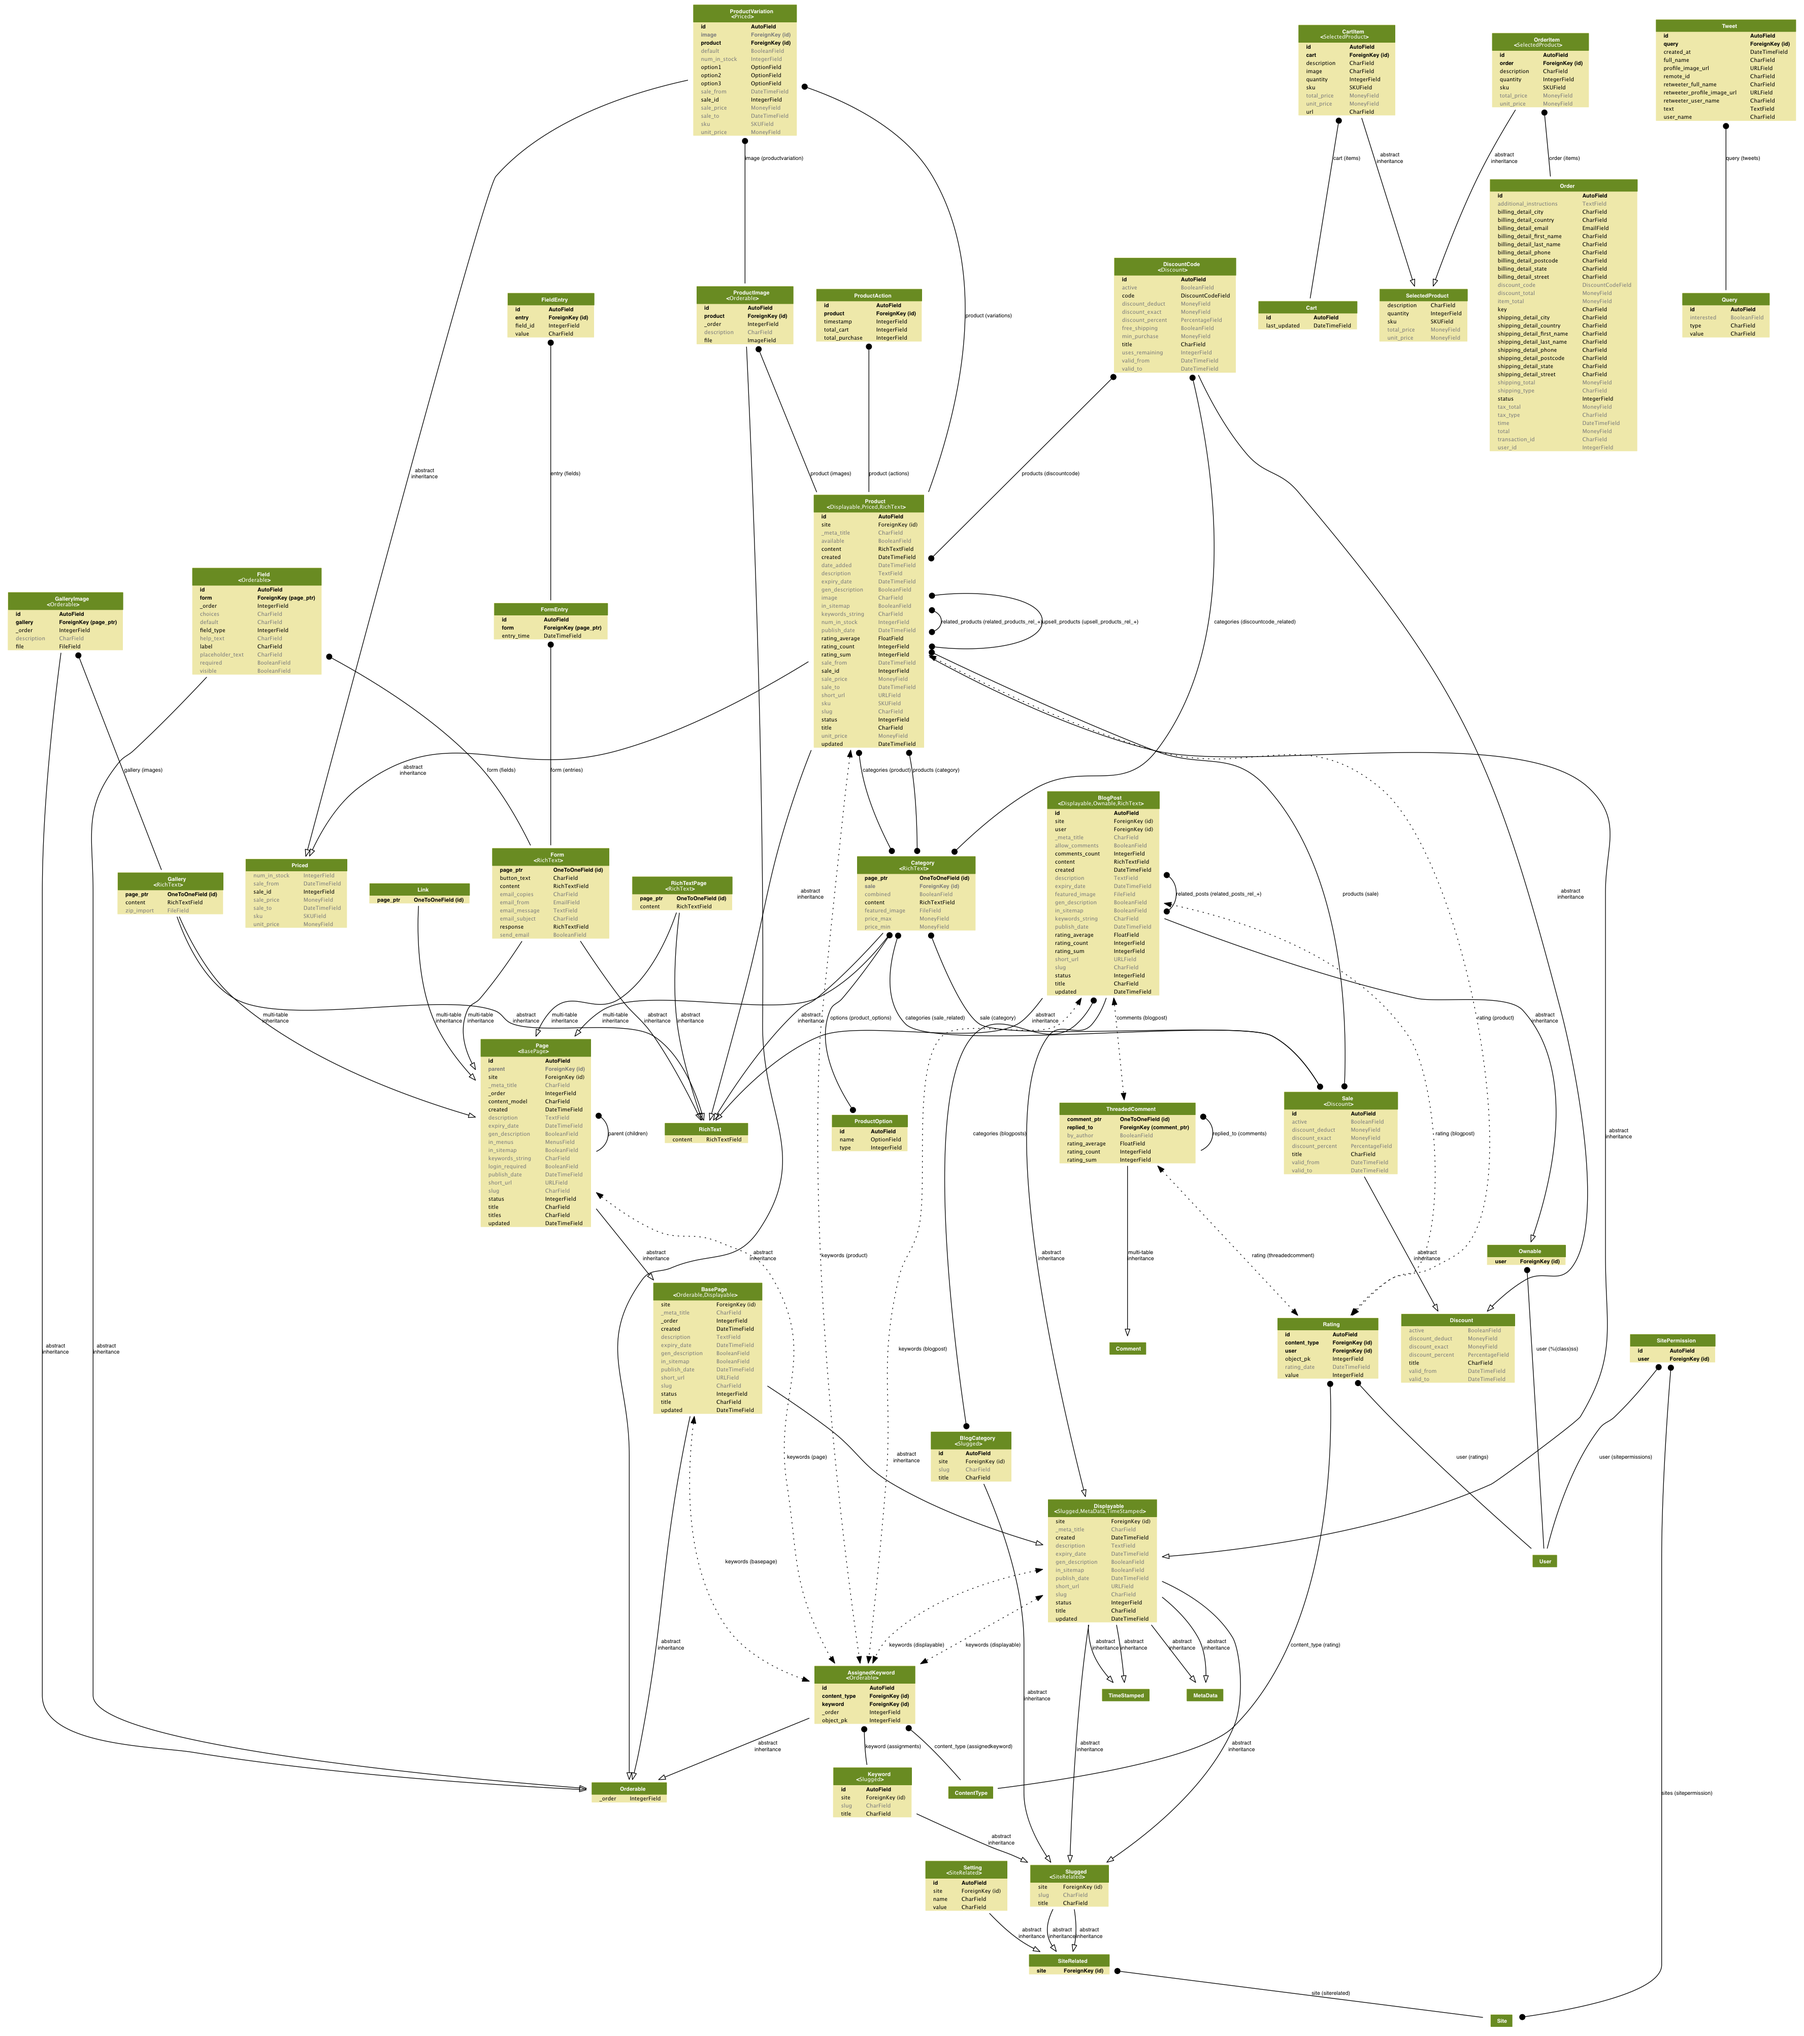
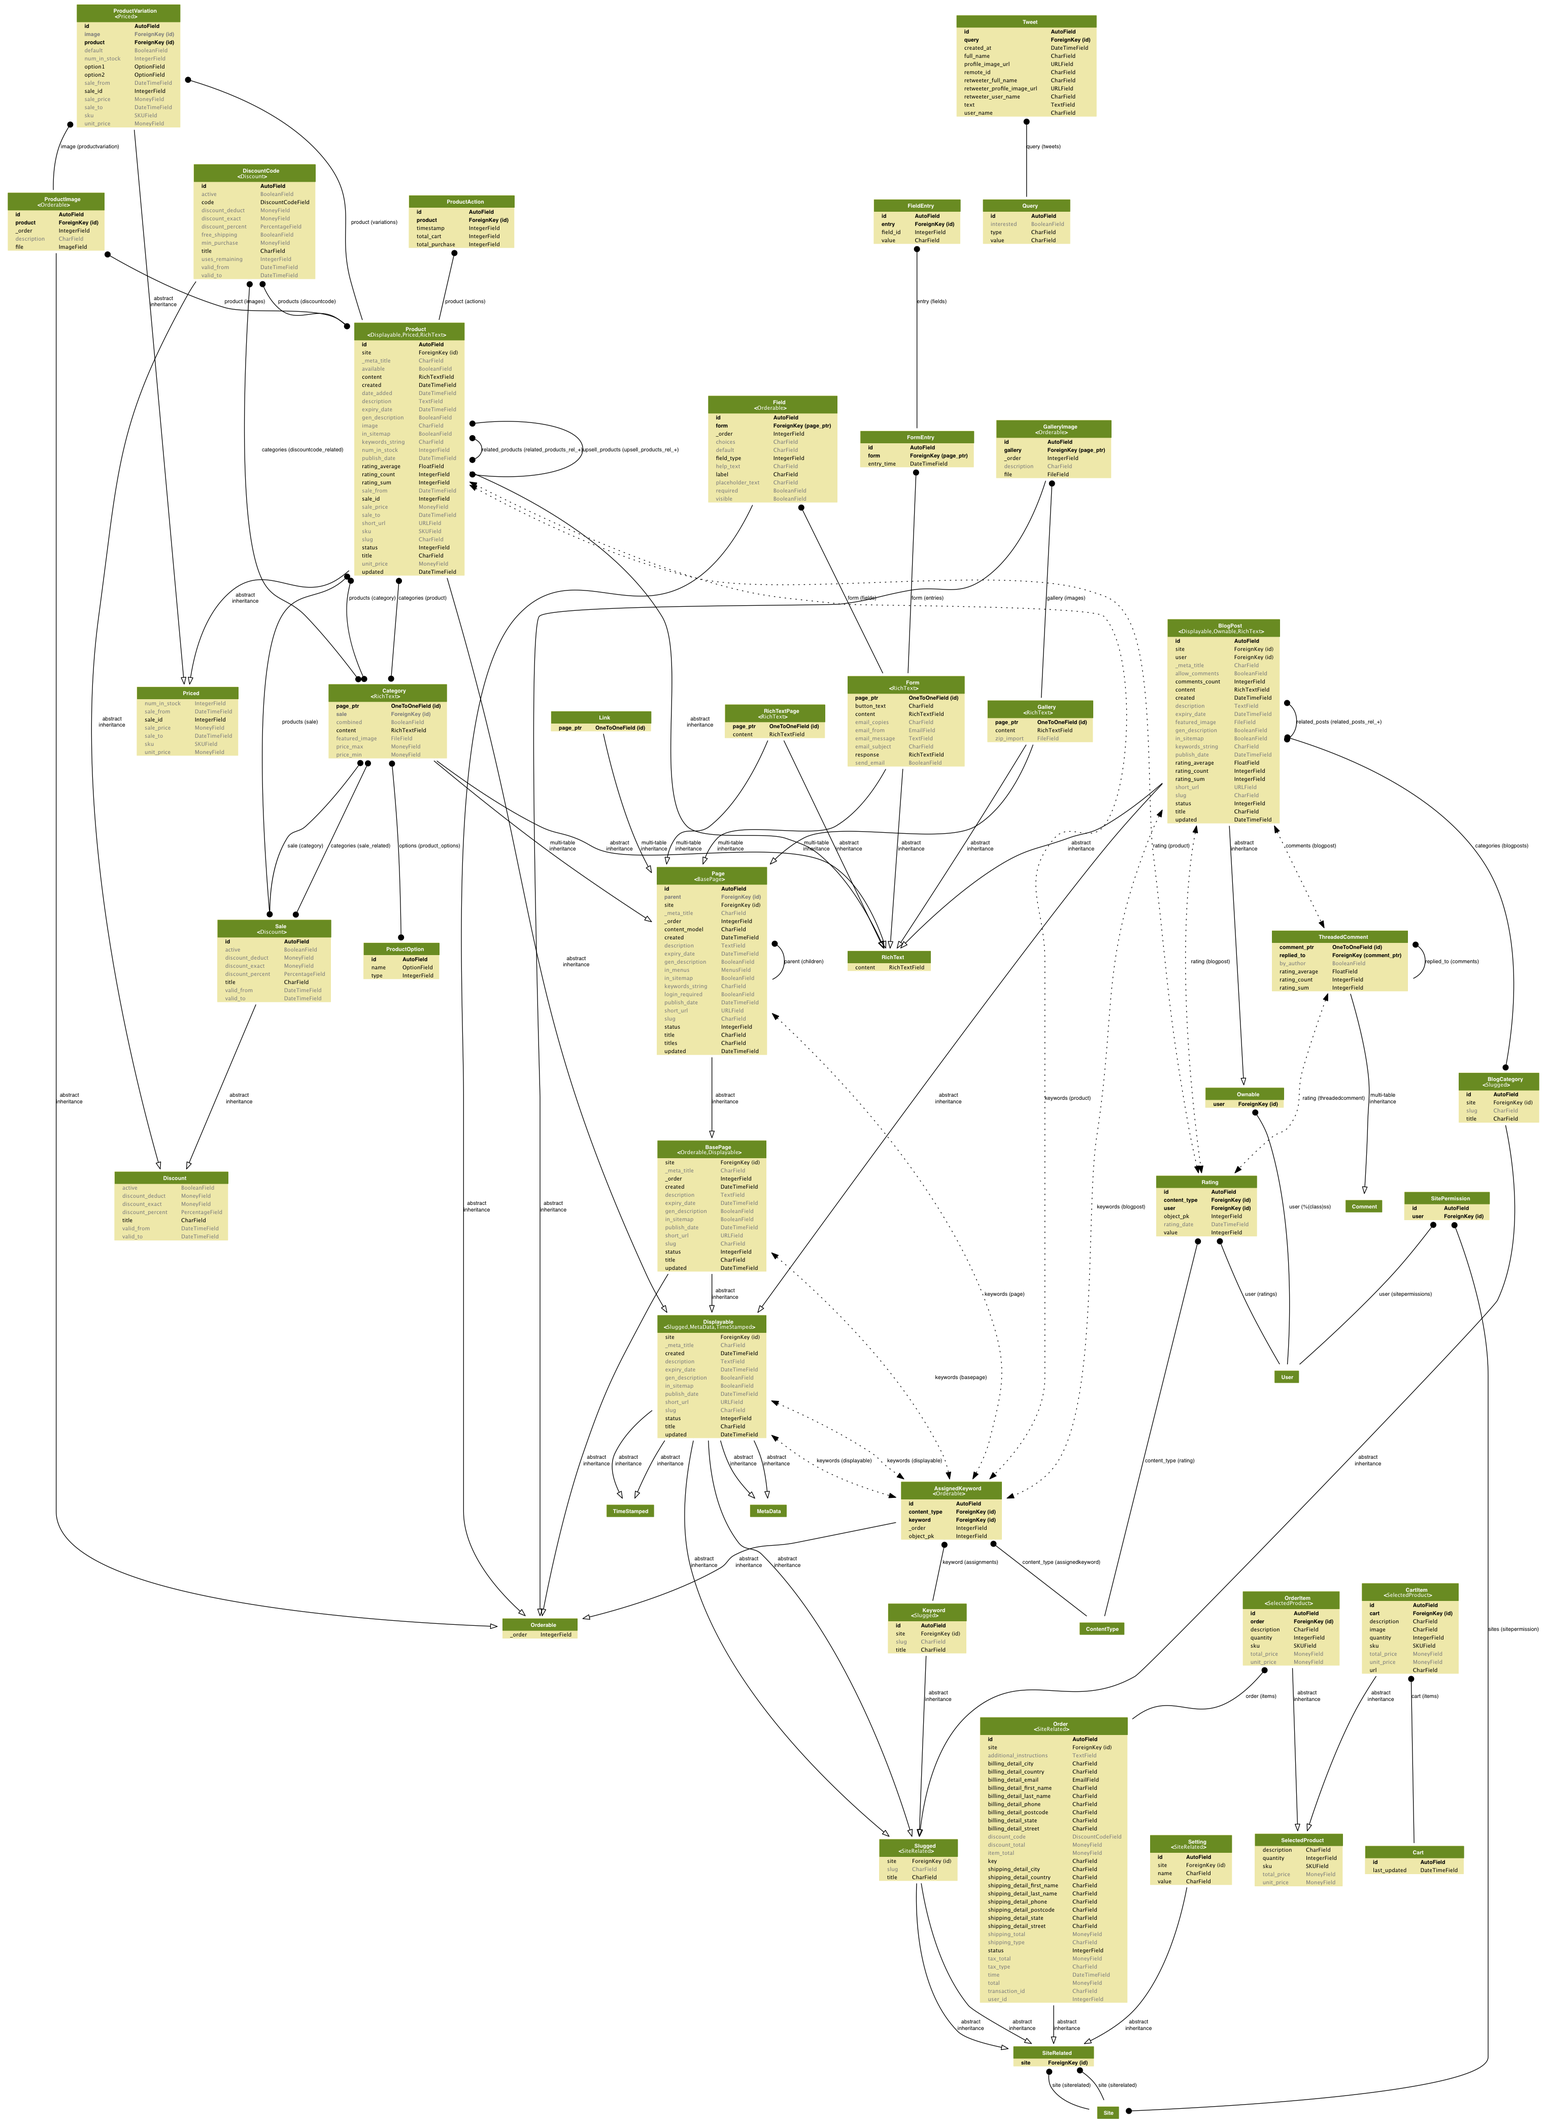
Update auto-generated changelog, docs, requirements.

diff --git a/docs/order_model_fields.rst b/docs/order_model_fields.rst
@@ -1,4 +1,5 @@
   * ``id``
+  * ``site``
   * ``billing_detail_first_name``
   * ``billing_detail_last_name``
   * ``billing_detail_street``
